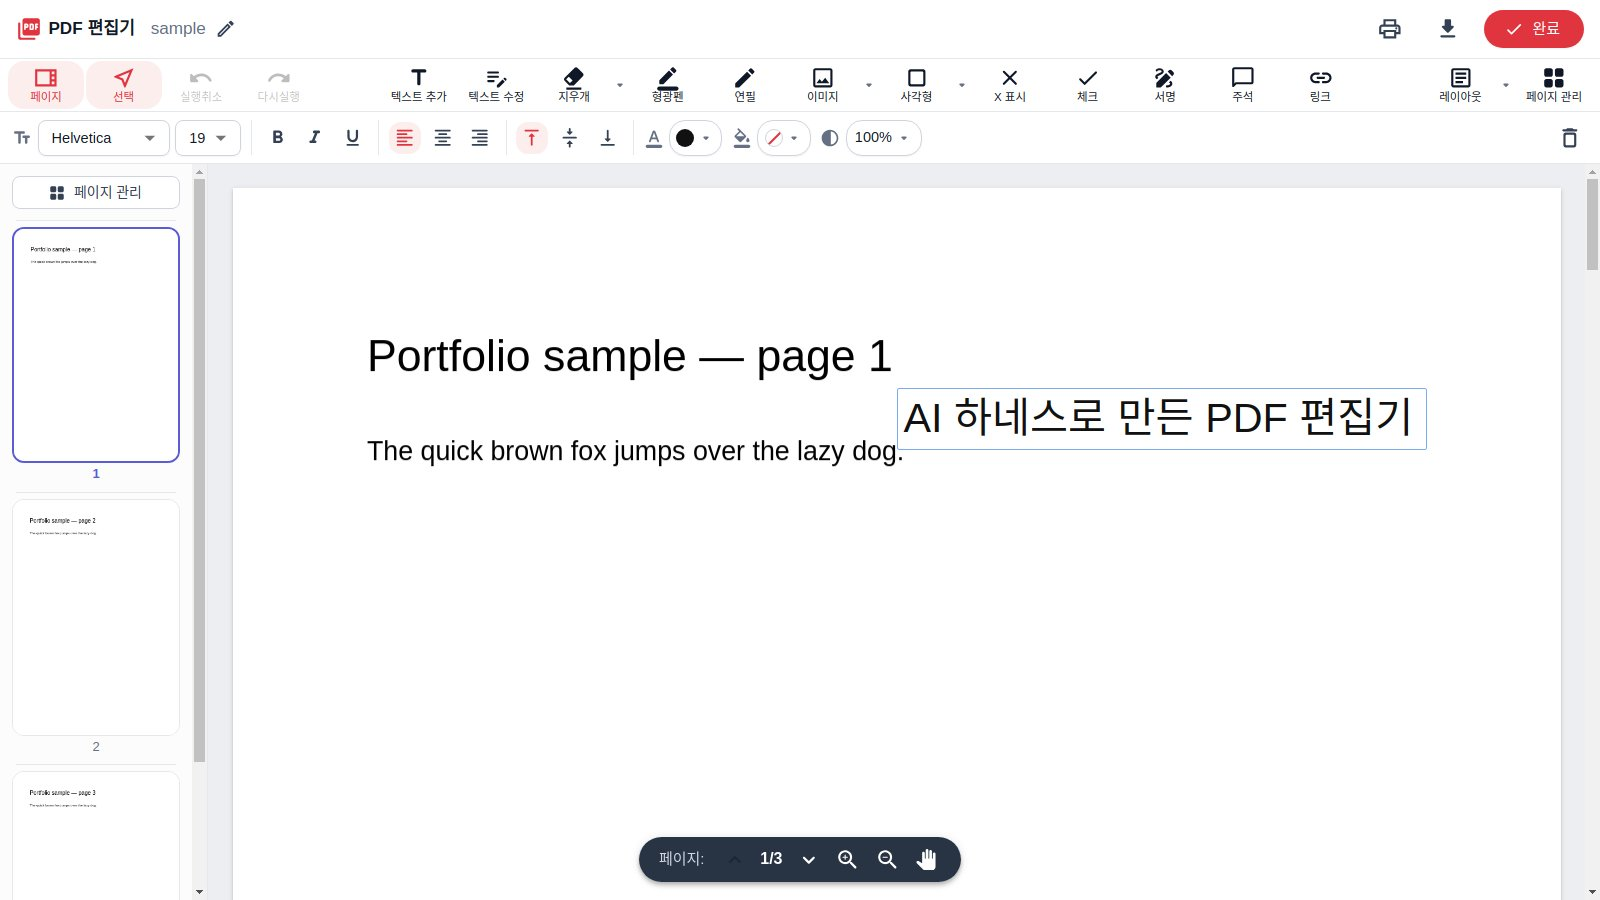
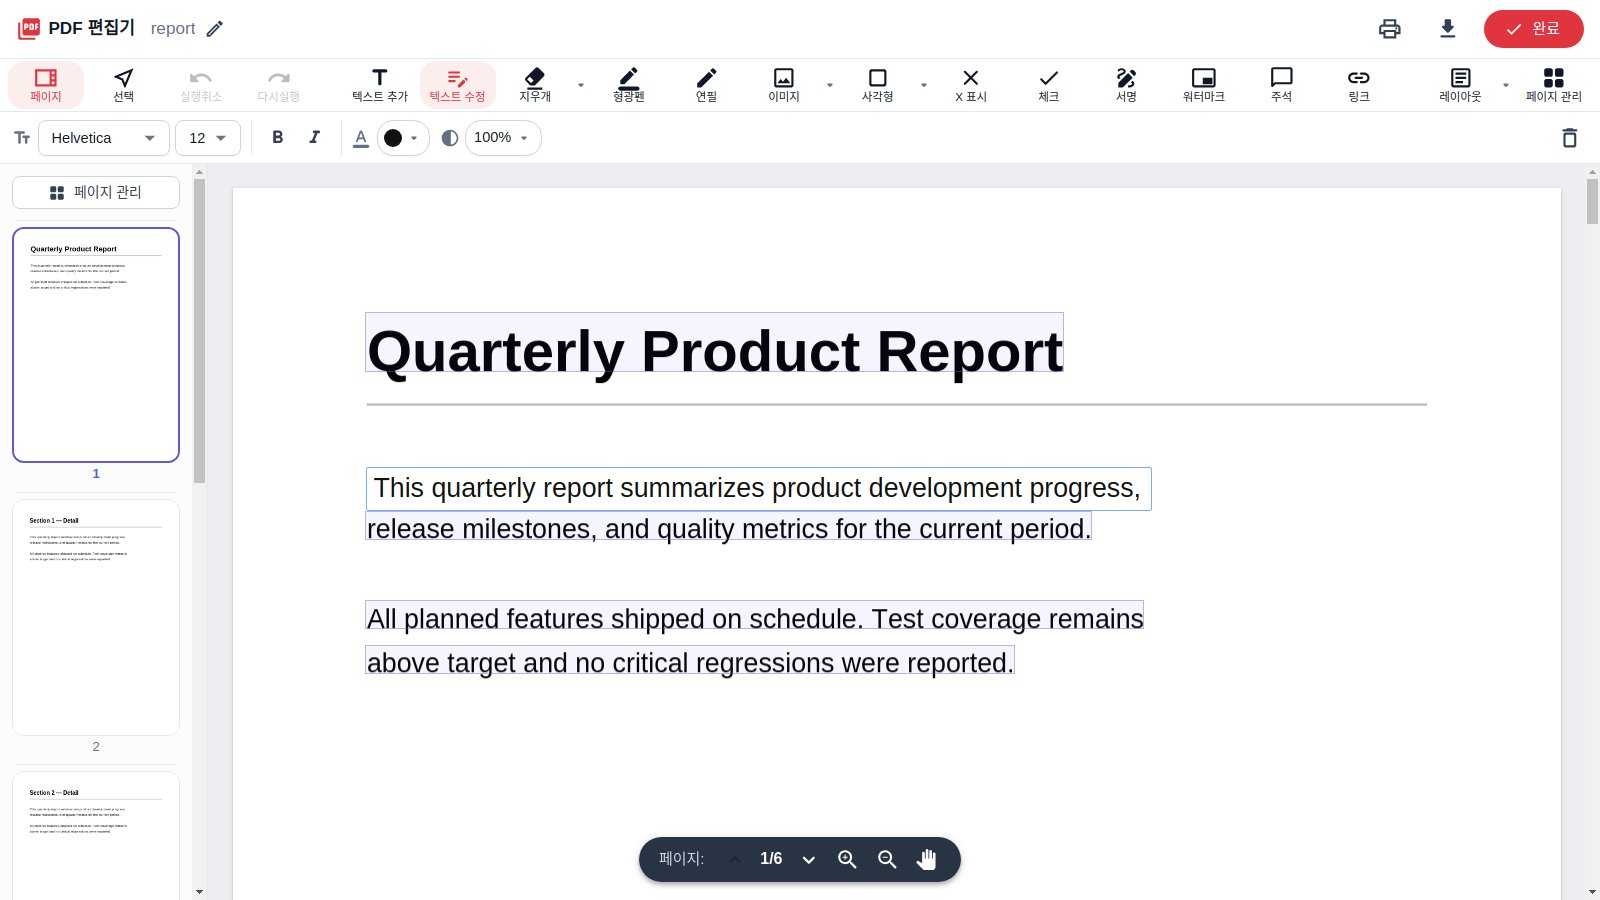
feat: pdf-editor 기능별 스크린샷 13장 + 그룹웨어·voice_server 캡처 추가 (PII 블러)

diff --git a/src/data/projectDetails.ts b/src/data/projectDetails.ts
@@ -46,6 +46,8 @@ export const projectDetails: Record<string, ProjectDetail> = {
       { src: "/images/projects/cm-groupware/approval-box.jpg", caption: "결재함 — 대기/승인/반려/참조 상태별 관리" },
       { src: "/images/projects/cm-groupware/schedule.jpg", caption: "일정 캘린더 — 개인/병원공통/회의실/휴가 레이어" },
       { src: "/images/projects/cm-groupware/meetings.jpg", caption: "회의록 — voice_server 자동 수신 + 할 일 후보 대기 표시" },
+      { src: "/images/projects/cm-groupware/boards.jpg", caption: "게시판 허브 — 일반/QA 트래커/IT 트래커 3가지 유형, 게시판별 통계" },
+      { src: "/images/projects/cm-groupware/board-emr-qa.jpg", caption: "EMR QA 트래커 — 실운영 300건+, 작성자/담당자 이중 상태 관리 (담당자·작성자는 블러 처리)" },
     ],
     demo: {
       url: "https://chungmu.xyz",
@@ -102,6 +104,7 @@ export const projectDetails: Record<string, ProjectDetail> = {
       { src: "/images/projects/voice-server/jobs.jpg", caption: "처리 이력 — 실제 부서장 회의 50건+ 처리 로그 (완료/실패 상태)" },
       { src: "/images/projects/voice-server/job-detail.jpg", caption: "잡 상세 — 5단계 파이프라인 타임라인, 암호화된 본문 게이트, LLM이 추출한 할 일 50건·10개 부서 (내용은 블러 처리)" },
       { src: "/images/projects/voice-server/job-detail-decrypted.jpg", caption: "패스워드 복호화 후 요약본 — 이 세션에서만 표시, DOCX/MD/JSON 내보내기 (본문 블러 처리)" },
+      { src: "/images/projects/voice-server/api-docs.jpg", caption: "FastAPI Swagger — 업로드/잡 상태/스트리밍 부분결과/JSON·MD·DOCX 다운로드 API" },
     ],
     demo: {
       note: "병원 내부망 전용 시스템이라 외부 접속은 불가합니다. 위 스크린샷은 실제 운영 화면입니다.",
@@ -130,9 +133,21 @@ export const projectDetails: Record<string, ProjectDetail> = {
       "Playwright + WSLg 시각 자가검증 — 앱 구동 → PDF 열기 → 편집 → 스크린샷 픽셀 계측",
     ],
     screenshots: [
-      { src: "/images/projects/pdf-editor/landing.jpg", caption: "시작 화면 — 파일 선택/드래그 앤 드롭" },
+      { src: "/images/projects/pdf-editor/landing.jpg", caption: "시작 화면 — 파일 선택/드래그 앤 드롭, 한/영 언어 전환" },
       { src: "/images/projects/pdf-editor/editor.jpg", caption: "편집기 — 전체 도구 툴바와 페이지 썸네일 패널" },
-      { src: "/images/projects/pdf-editor/text-edit.jpg", caption: "텍스트 추가 — 페이지 위 실시간 편집" },
+      { src: "/images/projects/pdf-editor/text-add.jpg", caption: "텍스트 추가 — 페이지 위 실시간 입력(한글 지원), 폰트·정렬 서브툴바" },
+      { src: "/images/projects/pdf-editor/text-edit.jpg", caption: "텍스트 수정 세션 — 기존 PDF 텍스트를 자동 인식해 박스 단위로 편집" },
+      { src: "/images/projects/pdf-editor/highlight.jpg", caption: "형광펜 — 불투명도·블렌드 모드(Multiply) 조절" },
+      { src: "/images/projects/pdf-editor/draw.jpg", caption: "연필 그리기 — 자유 곡선, 색상·굵기 조절" },
+      { src: "/images/projects/pdf-editor/shapes.jpg", caption: "도형 — 사각형·원, 선 스타일 서브툴바와 선택 핸들" },
+      { src: "/images/projects/pdf-editor/stamp.jpg", caption: "스탬프 — APPROVED·DRAFT 등 기본 스탬프 + 커스텀 스탬프" },
+      { src: "/images/projects/pdf-editor/sign.jpg", caption: "서명 추가 — 그리기·이미지·타이핑 3가지 방식, 서명 저장" },
+      { src: "/images/projects/pdf-editor/annotation.jpg", caption: "주석 노트 — 페이지에 부착되는 스티키 노트" },
+      { src: "/images/projects/pdf-editor/link.jpg", caption: "링크 — 영역 지정 후 웹사이트/내부 페이지 연결 (실제 PDF 주석으로 저장)" },
+      { src: "/images/projects/pdf-editor/pages-menu.jpg", caption: "페이지 썸네일 메뉴 — 이동·회전·복제·추출·삭제" },
+      { src: "/images/projects/pdf-editor/manage-pages.jpg", caption: "페이지 관리 그리드 — 다중 선택 후 일괄 회전·복제·순서 변경·문서 가져오기" },
+      { src: "/images/projects/pdf-editor/layout-double.jpg", caption: "레이아웃 — 두 쪽 보기, 페이지 모드/전환/회전 옵션" },
+      { src: "/images/projects/pdf-editor/english-editor.jpg", caption: "영어 UI — i18n 한/영 전환 (사전 기반, 라이브러리 없이 구현)" },
     ],
     links: [
       { label: "GitHub 저장소", href: "https://github.com/coolmarvel/pdf-editor" },

diff --git a/docs/session-log.md b/docs/session-log.md
@@ -2,6 +2,28 @@
 
 > 최신 세션이 맨 위. 각 블록은 "무엇을 했나 / 어떤 결정을 했나 / 다음에 뭘 하면 되나"를 담는다.
 
+## 2026-07-10 (3차) — 스크린샷 슬라이더 + pdf-editor 기능별 캡처 13장 + 웹 캡처 추가
+
+**한 일**
+- 상세 페이지 스크린샷 갤러리를 그리드 → **슬라이더**(ScreenshotSlider.tsx, client)로 교체.
+  좌우 화살표·카운터(n/N)·캡션·썸네일 스트립·키보드 화살표 지원. 전 프로젝트 공통 적용.
+- **pdf-editor 기능별 캡처 13장 추가** (총 15장): 텍스트 추가(한글)·텍스트 수정 세션·형광펜·연필·
+  도형·스탬프·서명·주석·링크·페이지 썸네일 메뉴·페이지 관리 그리드·두 쪽 레이아웃·영어 UI.
+  - 방법: pdf-editor의 기존 e2e 스크립트(e2e/visual-check.cjs·pages-check.cjs) 패턴 재사용 —
+    _electron.launch + pdf-lib 즉석 샘플 PDF + DataTransfer 드롭. 스크립트는 scratchpad에.
+  - 함정 2개: ① 페이지 요소가 ~1970px이라 y비율 0.4+ 좌표는 뷰포트 밖 → 도구 드래그가 무시됨
+    (y<0.3으로 해결) ② 언어 전환이 localStorage에 남아 다음 실행 랜딩이 영어가 됨 (한국어 클릭 선행).
+- **cm_groupware 2장 추가**: 게시판 허브, EMR QA 트래커(실운영 300건+, 앱 자체 마스킹 확인).
+  demo 계정의 나머지 메뉴 11종은 전부 빈 상태(0건)라 제외. **voice_server 1장 추가**: Swagger UI.
+- PII 검수: 캡처 에이전트가 화면별 노출 정보를 보고 → 원본 이미지를 직접 확인 후 채택.
+  QA 게시판은 앱 자체 마스킹(이*영)이 있으나 성+끝자 재식별 우려가 지적되어(권한 분류기)
+  기존 관례대로 담당자·작성자 열을 CSS blur(6px)로 재캡처해 반영.
+- 검증: 빌드 통과, 로컬 서빙에서 슬라이더 넘김(4/15)·캡션·썸네일 동작 확인.
+
+**결정**
+- pt_schedule 추가 캡처는 관리자 계정 미보유(시크릿 미기록 원칙)로 불가 — 기존 1장 유지.
+- 근무표·프로필 등 "구조만 보이는 빈 화면"은 포트폴리오 가치가 낮아 채택하지 않음.
+
 ## 2026-07-10 (2차) — 프로젝트 회사별 필터 탭 + Windows 인스톨러 v1.5.2 링크
 
 **한 일**